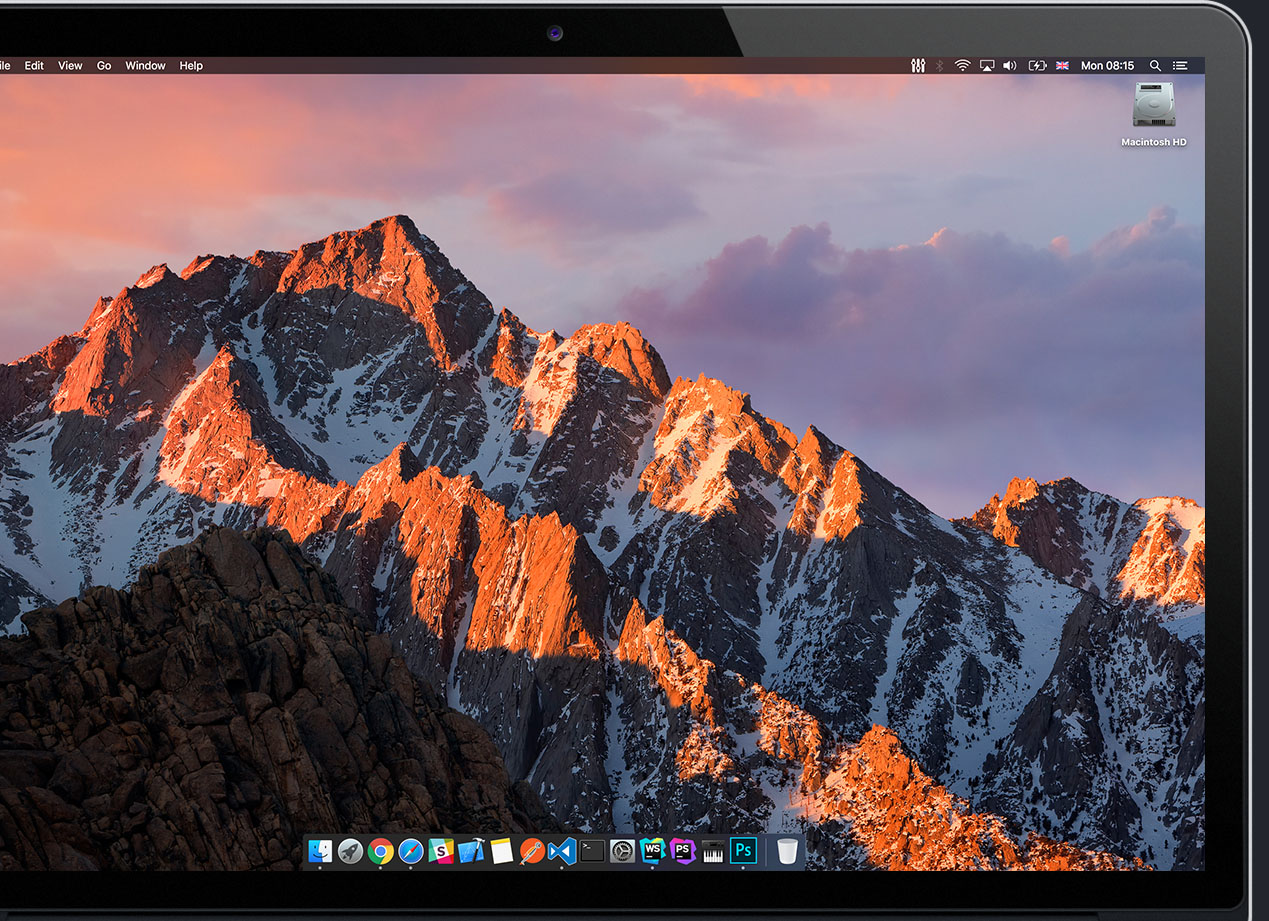
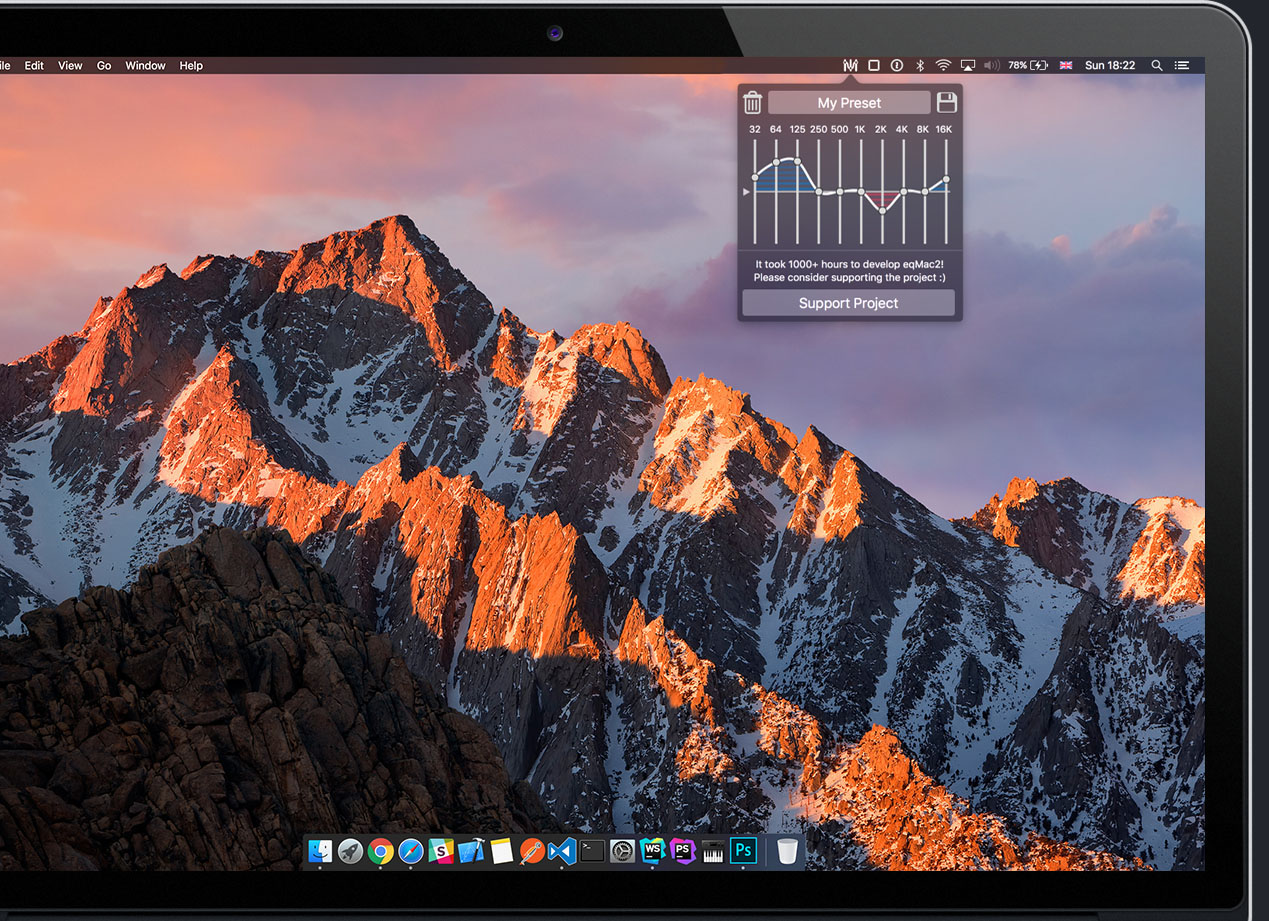
some changes for release

Changed region(s): [[0.5532, 0.0608, 0.9527, 0.3648]]

diff --git a/src/js/Services/Constants.js b/src/js/Services/Constants.js
@@ -4,7 +4,7 @@
 			API_URL: 'https://eqmac-api.bitgapp.com',
 			STRIPE_PUBLIC_KEY: 'pk_live_yphzhbXG6DPiDG3KSlCP2iQA',
 			PAYPAL_PRODUCT_KEY: 'ATx9hGBwHY4KQJZ3SkMqf8aucE6qXmTDjzz_PgLAuK8e1mW1AmFc75fANl_lDmIOVJLE27bd8hAAEr1Z',
-			BINARY_URL: 'https://storage.googleapis.com/bitgapp/eqMac.dmg'
+			BINARY_URL: 'https://storage.googleapis.com/bitgapp/eqMac2.dmg'
 		})
 })();
 

diff --git a/src/scss/breakpoints/_base.scss b/src/scss/breakpoints/_base.scss
@@ -185,13 +185,6 @@ $skew-degrees: 2deg;
       width: 55vw * $scale;
     }
 
-    .featured-screenshot{
-      position: absolute;
-      left: 30vw * 1/$scale;
-      width: 15vw * $scale;
-      top: 7vw * $scale;
-    }
-
     .featured-text{
       margin-left: 50vw;
       padding-top: 3vw * $scale;

diff --git a/src/index.html b/src/index.html
@@ -51,7 +51,6 @@
 
 <div id="overview" ng-controller="OverviewCtrl as c">
     <img class="featured-image" src="img/macbook.jpg">
-    <img class="featured-screenshot" src="img/eqmac.png">
     <div class="featured-text">
         <img src="img/icon.jpg" class="icon">
         <h1>eqMac2</h1>
